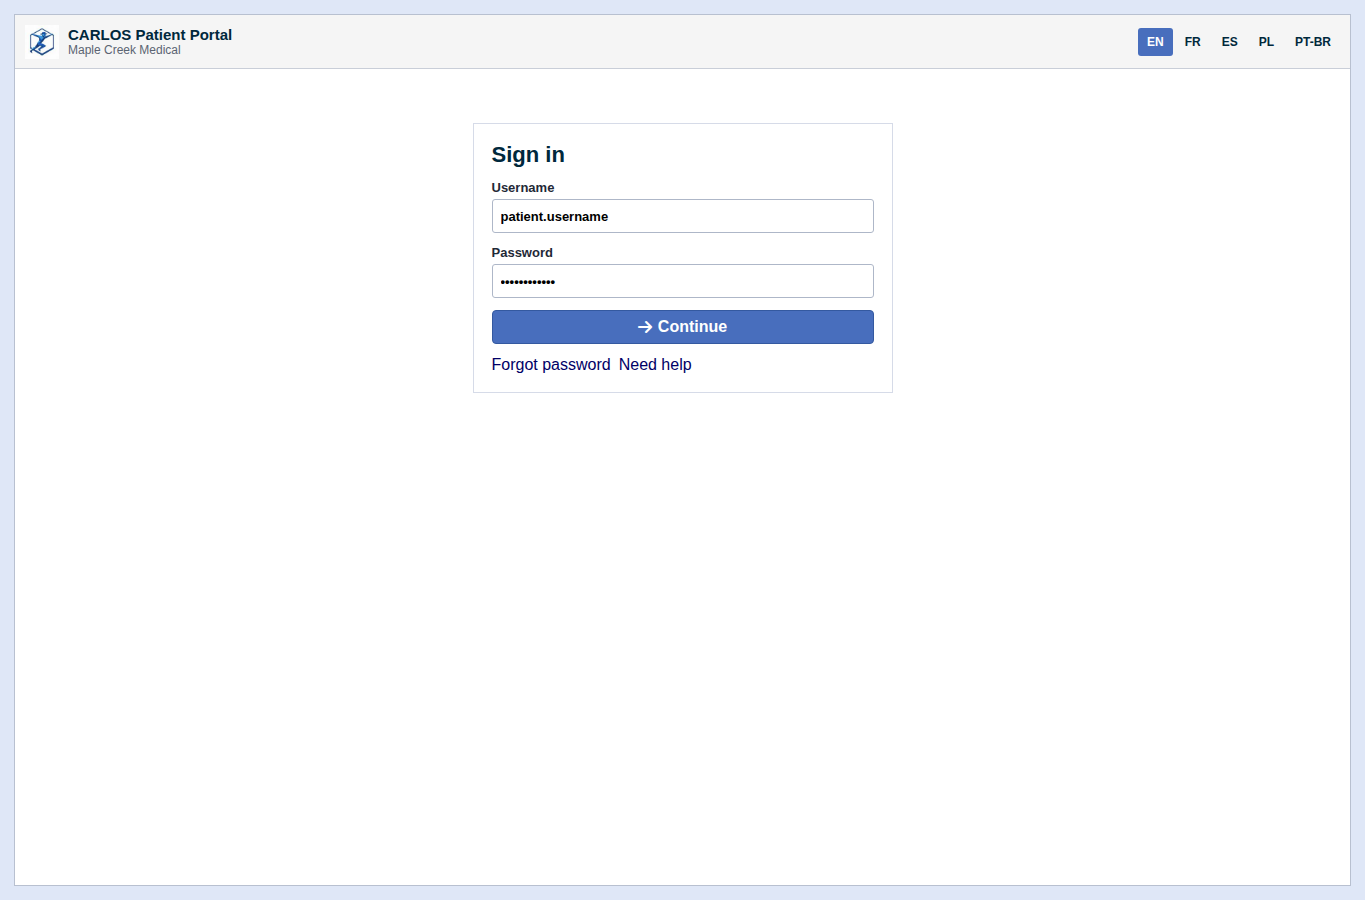
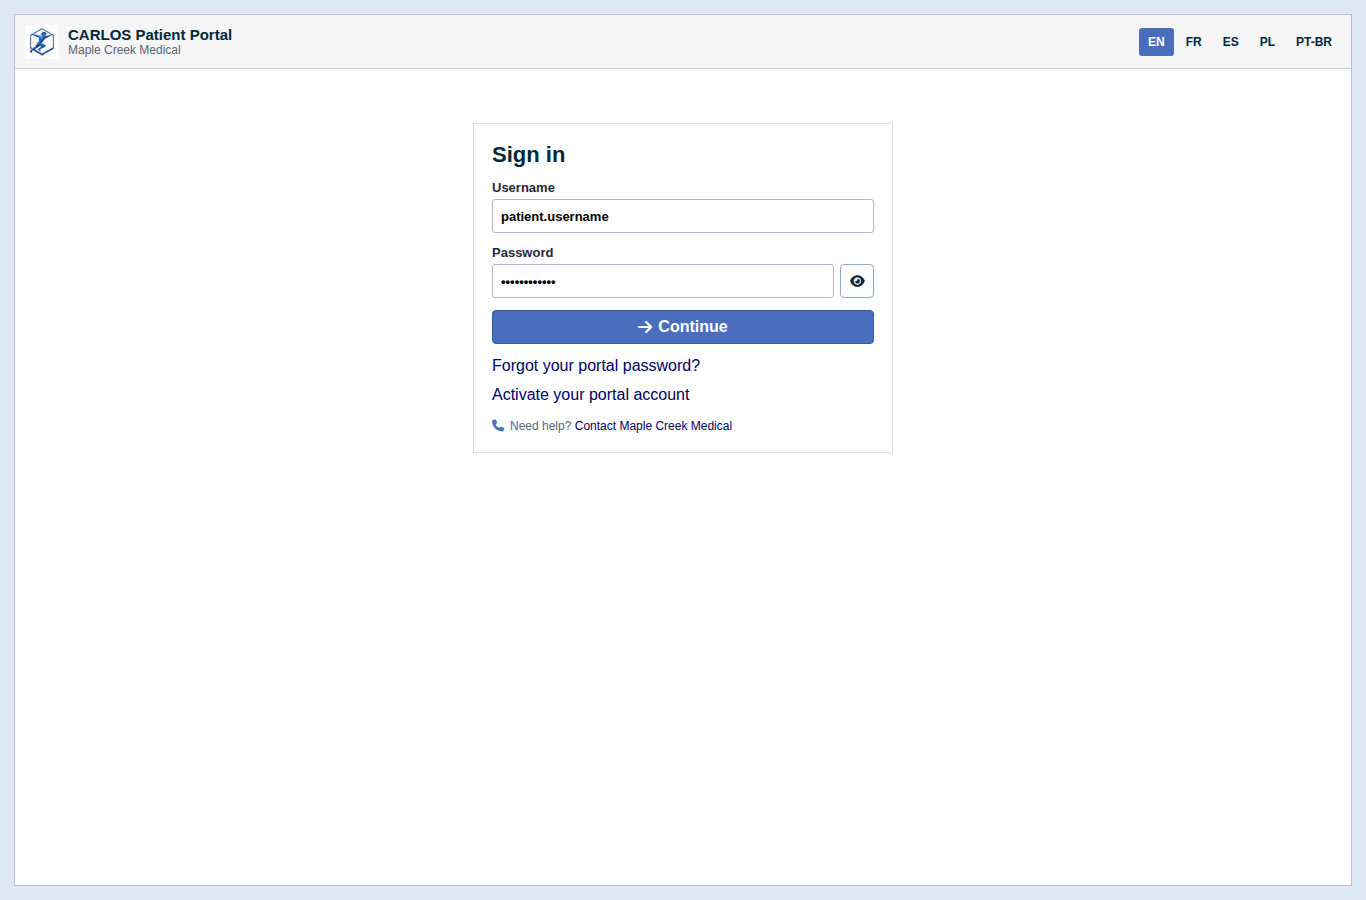
docs: update portal sign in mock

diff --git a/patient-portal-mocks/index.html b/patient-portal-mocks/index.html
@@ -37,13 +37,19 @@
               </label>
               <label>
                 <span>Password</span>
-                <input type="password" value="mockpassword" autocomplete="current-password">
+                <div class="password-input-row">
+                  <input type="password" value="mockpassword" autocomplete="current-password">
+                  <button class="icon-button password-toggle" type="button" title="Show password" aria-label="Show password" data-toggle-password>
+                    <i class="fas fa-eye"></i>
+                  </button>
+                </div>
               </label>
               <button class="primary-action" type="button" data-target="mfa"><i class="fas fa-arrow-right"></i><span>Continue</span></button>
               <div class="form-links">
-                <a href="#">Forgot password</a>
-                <a href="#">Need help</a>
+                <a href="#">Forgot your portal password?</a>
+                <a href="#">Activate your portal account</a>
               </div>
+              <p class="clinic-help-line"><i class="fas fa-phone"></i><span>Need help? <a href="#">Contact Maple Creek Medical</a></span></p>
             </form>
           </section>
         </div>
@@ -446,6 +452,19 @@
     document.querySelectorAll('[data-target]').forEach((button) => {
       button.addEventListener('click', () => {
         showScreen(button.dataset.target);
+      });
+    });
+
+    document.querySelectorAll('[data-toggle-password]').forEach((button) => {
+      button.addEventListener('click', () => {
+        const input = button.closest('.password-input-row')?.querySelector('input');
+        if (!input) return;
+        const nextType = input.type === 'password' ? 'text' : 'password';
+        input.type = nextType;
+        button.setAttribute('aria-label', nextType === 'password' ? 'Show password' : 'Hide password');
+        button.setAttribute('title', nextType === 'password' ? 'Show password' : 'Hide password');
+        button.querySelector('i')?.classList.toggle('fa-eye', nextType === 'password');
+        button.querySelector('i')?.classList.toggle('fa-eye-slash', nextType !== 'password');
       });
     });
 

diff --git a/patient-portal-mocks/styles.css b/patient-portal-mocks/styles.css
@@ -272,6 +272,21 @@ h2 {
   outline-offset: 1px;
 }
 
+.password-input-row {
+  display: grid;
+  grid-template-columns: minmax(0, 1fr) 34px;
+  gap: 6px;
+  align-items: center;
+}
+
+.password-input-row input {
+  min-width: 0;
+}
+
+.password-toggle {
+  align-self: end;
+}
+
 .primary-action,
 .secondary-action,
 .icon-button,
@@ -324,6 +339,25 @@ h2 {
   flex-wrap: wrap;
   gap: 8px;
   align-items: center;
+}
+
+.form-links {
+  gap: 8px 14px;
+  line-height: 1.3;
+}
+
+.clinic-help-line {
+  display: flex;
+  gap: 6px;
+  align-items: center;
+  margin: 0;
+  color: var(--muted);
+  font-size: 12px;
+  line-height: 1.35;
+}
+
+.clinic-help-line i {
+  color: var(--carlos-blue);
 }
 
 .status-strip {
